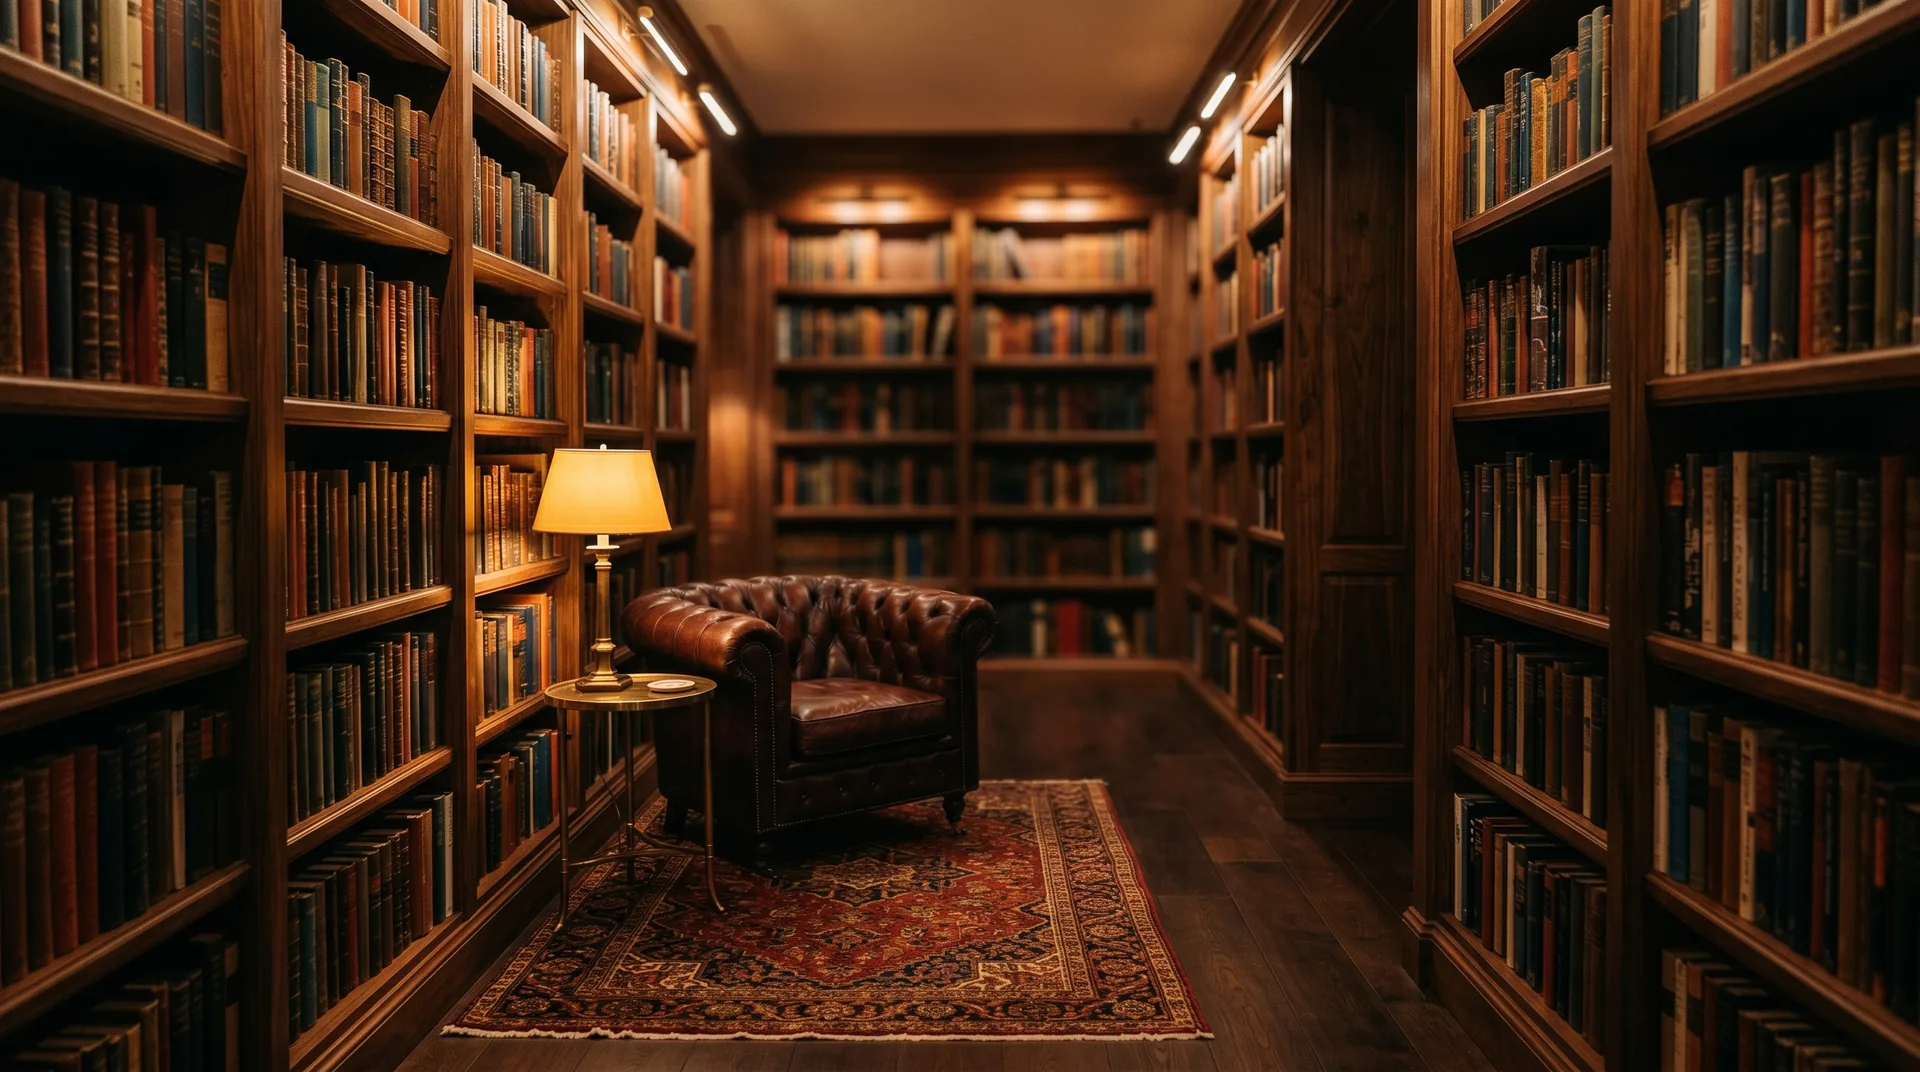
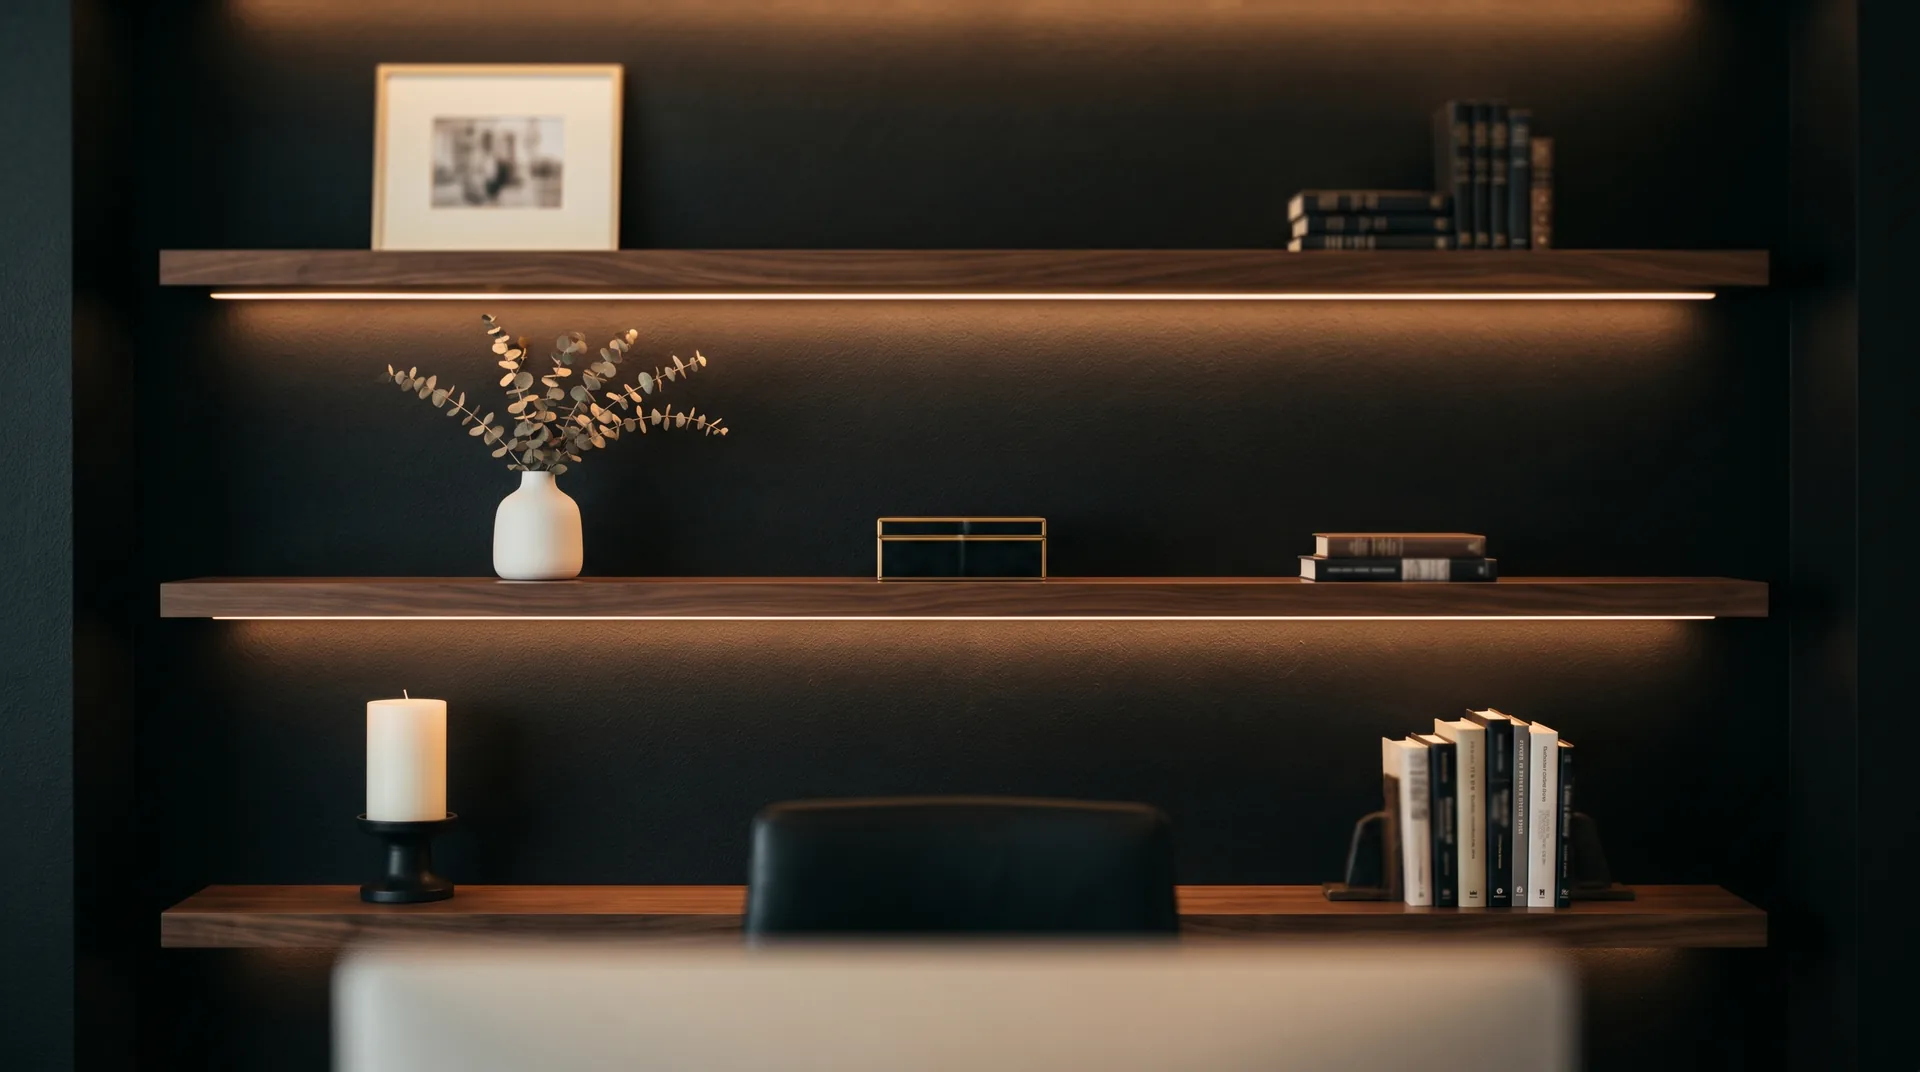
Swap office bokeh background, relabel Library -> Office
Replace the sharp library photo with a soft-bokeh dark office back wall
(backlit walnut shelves, candle, books, framed photo). A soft, low-
contrast background hides segmentation edge artifacts far better than a
sharp scene, and the wall-only composition (no foreground desk/chair)
reads correctly behind a composited subject. Relabel the option Office.

diff --git a/src/components/SetupScreen.tsx b/src/components/SetupScreen.tsx
@@ -17,7 +17,7 @@ const LAYOUT_OPTIONS: { value: LayoutMode; label: string; icon: typeof Minimize2
 const BACKGROUND_OPTIONS: { value: BackgroundMode; label: string; icon: typeof Ban }[] = [
   { value: 'none', label: 'None', icon: Ban },
   { value: 'blur', label: 'Blur', icon: Aperture },
-  { value: 'library', label: 'Library', icon: Library },
+  { value: 'library', label: 'Office', icon: Library },
 ];
 
 interface SetupScreenProps {
@@ -171,7 +171,7 @@ export function SetupScreen({
                     {preferences.backgroundMode !== 'none' && (
                       <p className="text-[11px] text-brand-muted leading-snug">
                         {preferences.backgroundMode === 'library'
-                          ? 'Replaces your camera background with an elegant library scene. Works best with even front lighting and a real background behind you.'
+                          ? 'Replaces your camera background with an elegant office scene. Works best with even, bright front lighting and a plain wall behind you.'
                           : 'Blurs whatever is behind you on camera. Works best with even front lighting.'}
                       </p>
                     )}